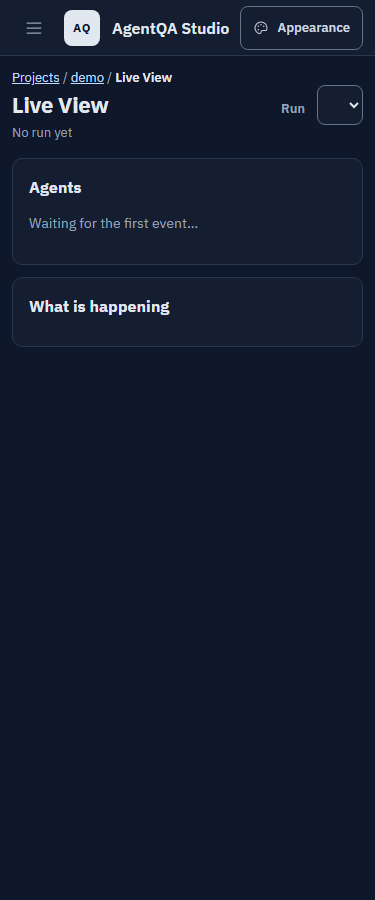
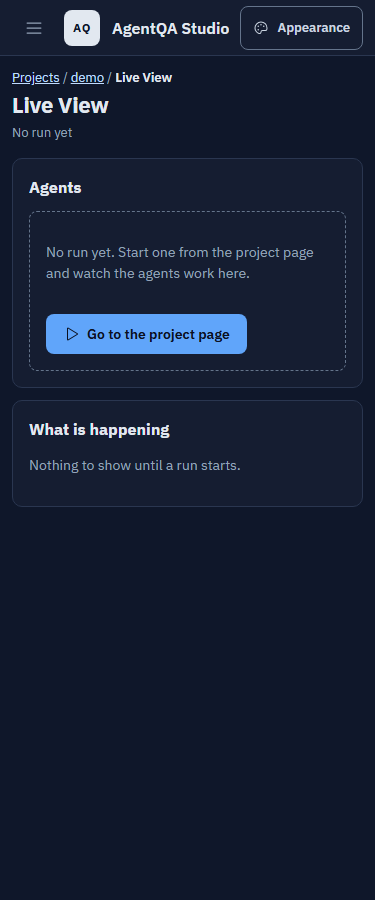
feat: M1.2-UI phase 3 — testing motion, progress bar, skeletons and honest Live View states
- Live.tsx: skeleton cards while the run list loads (aria-busy region), "No run yet" with the way to start one
  (run selector hidden), "Waiting for the first event…" once a run is chosen, an alert when the list fails.
  A tick draws itself only on cards whose state changed after they first appeared, so a replayed run is quiet.
- components/ProgressBar.tsx (transform-based fill, clamped, announced as a progress bar) replaces the wizard's
  bare <progress>; components/Skeleton.tsx placeholder cards; styles/motion.css recipes (pulse, tick-in,
  cross-in, skeleton, drawer slide, scan line for M1.3) all zeroed under reduced motion by tokens.css.
- Tests first: Live.test.tsx (4), ProgressBar.test.tsx (2). Vitest 43/43, tsc and oxlint clean, app check green.

diff --git a/frontend/src/pages/Live.tsx b/frontend/src/pages/Live.tsx
@@ -1,9 +1,10 @@
-import { useEffect, useReducer } from "react";
+import { useEffect, useReducer, useState } from "react";
 import { Link, useParams, useSearchParams } from "react-router";
 import { useQuery } from "@tanstack/react-query";
-import { CheckCircle, CircleDashed, HandPalm, Spinner, XCircle } from "@phosphor-icons/react";
+import { CheckCircle, CircleDashed, HandPalm, Play, Spinner, XCircle } from "@phosphor-icons/react";
 import { api, type LiveEvent } from "../lib/api";
 import { initialLiveState, reduceLive, type AgentState } from "../lib/live";
+import { SkeletonCards } from "../components/Skeleton";
 
 const ICONS: Record<AgentState, React.ReactNode> = {
   running: <Spinner aria-hidden="true" />,
@@ -15,16 +16,22 @@ const ICONS: Record<AgentState, React.ReactNode> = {
 const LABELS: Record<AgentState, string> = { running: "Running", done: "Done", waiting: "Waiting for you", idle: "Queued", failed: "Failed" };
 const MAX_SHOWN = 300;
 
-/** Live View (bare, M0.5): one card per agent and the event stream over Server-Sent Events. M1.3 builds it out. */
+/** Live View (M0.5 board + stream, M1.2-UI states): one card per agent and the event stream over Server-Sent Events.
+ *  Honest states: a skeleton while the runs load, "No run yet" with the way to start one, "Waiting for the first
+ *  event…" once a run is chosen, and an error when the list fails. Live View v2 (M1.3) builds the rest. */
 export function Live() {
   const { slug = "" } = useParams();
   const [params, setParams] = useSearchParams();
   const sessions = useQuery({ queryKey: ["live-sessions", slug], queryFn: () => api.liveSessions(slug) });
   const session = params.get("session") ?? sessions.data?.[0]?.id ?? "";
   const [state, dispatch] = useReducer(reduceLive, initialLiveState);
+  // The states the cards had when they first appeared: a tick draws itself only on a card that changed afterwards,
+  // so a replayed run shows its final board quietly instead of animating every card at once.
+  const [baseline, setBaseline] = useState<Map<string, AgentState> | null>(null);
 
   useEffect(() => {
     dispatch({ type: "reset" });                       // another run: start the board from nothing
+    setBaseline(null);
     if (!session) return;
     const source = new EventSource(api.streamUrl(slug, session));
     source.addEventListener("live", (e) => {
@@ -42,12 +49,19 @@ export function Live() {
     return () => source.close();
   }, [slug, session]);
 
+  useEffect(() => {
+    if (baseline === null && state.agents.length > 0) setBaseline(new Map(state.agents.map((a) => [a.agent, a.state])));
+  }, [baseline, state.agents]);
+
+  const noRun = sessions.isSuccess && sessions.data.length === 0;
+  const projectHref = `/projects/${encodeURIComponent(slug)}`;
+
   return (
     <>
       <div className="topbar">
         <div>
           <div className="crumbs">
-            <Link to="/">Projects</Link> / <Link to={`/projects/${encodeURIComponent(slug)}`}>{slug}</Link> / <b>Live View</b>
+            <Link to="/">Projects</Link> / <Link to={projectHref}>{slug}</Link> / <b>Live View</b>
           </div>
           <h1>Live View</h1>
           <p className="sub">
@@ -56,40 +70,64 @@ export function Live() {
           </p>
         </div>
         <div className="spacer" />
-        <label htmlFor="session" className="small muted">
-          Run
-        </label>
-        <select id="session" value={session} onChange={(e) => setParams({ session: e.target.value })}>
-          {sessions.data?.map((s) => (
-            <option key={s.id} value={s.id}>
-              {s.label}
-              {s.running ? " · running" : ""}
-            </option>
-          ))}
-        </select>
+        {sessions.data && sessions.data.length > 0 && (
+          <>
+            <label htmlFor="session" className="small muted">
+              Run
+            </label>
+            <select id="session" value={session} onChange={(e) => setParams({ session: e.target.value })}>
+              {sessions.data.map((s) => (
+                <option key={s.id} value={s.id}>
+                  {s.label}
+                  {s.running ? " · running" : ""}
+                </option>
+              ))}
+            </select>
+          </>
+        )}
       </div>
 
+      {sessions.isError && (
+        <p className="notice bad" role="alert">
+          The runs could not be loaded. Reload the page, or check that the server is still up.
+        </p>
+      )}
+
       <div className="grid g-live">
-        <section className="card" aria-labelledby="h-agents">
+        <section className="card" aria-labelledby="h-agents" aria-busy={sessions.isPending || undefined}>
           <h2 id="h-agents">Agents</h2>
-          {state.agents.length === 0 && <p className="muted">Waiting for the first event…</p>}
+          {sessions.isPending && <SkeletonCards />}
+          {noRun && (
+            <div className="empty">
+              <p>No run yet. Start one from the project page and watch the agents work here.</p>
+              <Link className="btn primary" to={projectHref}>
+                <Play aria-hidden="true" />
+                Go to the project page
+              </Link>
+            </div>
+          )}
+          {session && state.agents.length === 0 && <p className="muted">Waiting for the first event…</p>}
           <div className="agents one-col">
-            {state.agents.map((a) => (
-              <div key={a.agent} className={`agent ${a.state}`}>
-                <div className="name">
-                  {ICONS[a.state]}
-                  {a.agent}
+            {state.agents.map((a) => {
+              const changed = baseline !== null && baseline.get(a.agent) !== a.state;
+              return (
+                <div key={a.agent} className={`agent ${a.state}${changed ? " changed" : ""}`}>
+                  <div className="name">
+                    {ICONS[a.state]}
+                    {a.agent}
+                  </div>
+                  <div className="state">
+                    {LABELS[a.state]} · {a.last}
+                  </div>
+                  <div className="meta">{a.steps} events</div>
                 </div>
-                <div className="state">
-                  {LABELS[a.state]} · {a.last}
-                </div>
-                <div className="meta">{a.steps} events</div>
-              </div>
-            ))}
+              );
+            })}
           </div>
         </section>
         <section className="card flat" aria-labelledby="h-stream">
           <h2 id="h-stream">What is happening</h2>
+          {!session && !sessions.isPending && <p className="muted">Nothing to show until a run starts.</p>}
           <div className="stream" tabIndex={0} aria-label="Live events" aria-live="polite">
             {state.events.slice(-MAX_SHOWN).map((e) => (
               <div key={`${e.w}-${e.seq}-${e.t}`} className={`evt ${e.level === "bad" ? "fail" : ""}`}>

diff --git a/frontend/src/pages/Live.test.tsx b/frontend/src/pages/Live.test.tsx
@@ -1,0 +1,74 @@
+import { afterEach, describe, expect, it, vi } from "vitest";
+import { cleanup, render, screen, waitFor } from "@testing-library/react";
+import { QueryClient, QueryClientProvider } from "@tanstack/react-query";
+import { MemoryRouter, Route, Routes } from "react-router";
+import { Live } from "./Live";
+
+class FakeEventSource {
+  static instances: FakeEventSource[] = [];
+  listeners: Record<string, ((e: MessageEvent) => void)[]> = {};
+  url: string;
+  constructor(url: string) {
+    this.url = url;
+    FakeEventSource.instances.push(this);
+  }
+  addEventListener(type: string, cb: (e: MessageEvent) => void) {
+    (this.listeners[type] ??= []).push(cb);
+  }
+  close() {}
+}
+
+function respond(status: number, body: unknown, delayMs = 0) {
+  return new Promise<Response>((resolve) =>
+    setTimeout(() => resolve(new Response(JSON.stringify(body), { status, headers: { "Content-Type": "application/json" } })), delayMs),
+  );
+}
+
+function mount(sessions: () => Promise<Response>) {
+  vi.stubGlobal("fetch", vi.fn(sessions));
+  vi.stubGlobal("EventSource", FakeEventSource);
+  const client = new QueryClient({ defaultOptions: { queries: { retry: false } } });
+  return render(
+    <QueryClientProvider client={client}>
+      <MemoryRouter initialEntries={["/projects/demo/live"]}>
+        <Routes>
+          <Route path="/projects/:slug/live" element={<Live />} />
+        </Routes>
+      </MemoryRouter>
+    </QueryClientProvider>,
+  );
+}
+
+afterEach(() => {
+  cleanup();
+  vi.unstubAllGlobals();
+  FakeEventSource.instances = [];
+});
+
+describe("Live", () => {
+  it("shows a skeleton board while the runs are loading", () => {
+    mount(() => respond(200, { ok: true, data: [] }, 50));
+    expect(screen.getByRole("region", { name: "Agents" })).toHaveAttribute("aria-busy", "true");
+  });
+
+  it("with no run yet, says so, links to the project page and hides the run selector", async () => {
+    mount(() => respond(200, { ok: true, data: [] }));
+    const link = await screen.findByRole("link", { name: /project page/ });     // the header says "No run yet" even while loading
+    expect(link).toHaveAttribute("href", "/projects/demo");
+    expect(screen.getByText(/No run yet\. Start one/)).toBeVisible();
+    expect(screen.queryByRole("combobox", { name: "Run" })).toBeNull();
+    expect(FakeEventSource.instances).toHaveLength(0);                      // nothing to stream
+  });
+
+  it("with a run but no events yet, waits for the first event", async () => {
+    mount(() => respond(200, { ok: true, data: [{ id: "job-1-pipeline", label: "run 1", running: true, when: "now", shots: 0 }] }));
+    await waitFor(() => expect(screen.getByText(/Waiting for the first event/)).toBeVisible());
+    expect(screen.getByRole("combobox", { name: "Run" })).toHaveValue("job-1-pipeline");
+    expect(FakeEventSource.instances[0].url).toContain("/live/job-1-pipeline/stream");
+  });
+
+  it("tells the person when the runs could not be loaded", async () => {
+    mount(() => respond(500, { ok: false, error: { code: "server", message: "boom" } }));
+    await waitFor(() => expect(screen.getByRole("alert")).toHaveTextContent(/could not be loaded/));
+  });
+});

diff --git a/frontend/src/components/ProgressBar.test.tsx b/frontend/src/components/ProgressBar.test.tsx
@@ -1,0 +1,28 @@
+import { afterEach, describe, expect, it } from "vitest";
+import { cleanup, render, screen } from "@testing-library/react";
+import { ProgressBar } from "./ProgressBar";
+
+afterEach(cleanup);
+
+describe("ProgressBar", () => {
+  it("exposes the value as a progress bar and clamps it to 0..1", () => {
+    render(<ProgressBar value={0.38} label="Run progress" />);
+    const bar = screen.getByRole("progressbar", { name: "Run progress" });
+    expect(bar).toHaveAttribute("aria-valuenow", "38");
+    expect(bar).toHaveAttribute("aria-valuemin", "0");
+    expect(bar).toHaveAttribute("aria-valuemax", "100");
+    cleanup();
+    render(<ProgressBar value={1.7} label="Upload" />);
+    expect(screen.getByRole("progressbar", { name: "Upload" })).toHaveAttribute("aria-valuenow", "100");
+    cleanup();
+    render(<ProgressBar value={-2} label="Upload" />);
+    expect(screen.getByRole("progressbar", { name: "Upload" })).toHaveAttribute("aria-valuenow", "0");
+  });
+
+  it("fills by a transform, never by width, so the motion stays on the compositor", () => {
+    render(<ProgressBar value={0.5} label="Run progress" />);
+    const fill = screen.getByRole("progressbar", { name: "Run progress" }).firstElementChild as HTMLElement;
+    expect(fill.style.getPropertyValue("--p")).toBe("0.5");
+    expect(fill.style.width).toBe("");
+  });
+});

diff --git a/frontend/src/pages/wizard/StepRequirements.tsx b/frontend/src/pages/wizard/StepRequirements.tsx
@@ -2,6 +2,7 @@ import { useRef, useState } from "react";
 import { useMutation } from "@tanstack/react-query";
 import { CheckCircle, FileText, Trash, UploadSimple, Warning, XCircle } from "@phosphor-icons/react";
 import { ApiError, api, upload, type ChatResult, type DocumentInfo } from "../../lib/api";
+import { ProgressBar } from "../../components/ProgressBar";
 import { RequirementChat } from "./RequirementChat";
 
 const ACCEPT = ".docx,.doc,.pdf,.xlsx,.xlsm,.xls,.csv,.html,.htm,.json,.md,.txt,.png,.jpg,.jpeg";
@@ -95,9 +96,10 @@ export function StepRequirements(p: Props) {
           <input ref={picker} type="file" multiple accept={ACCEPT} hidden onChange={(e) => void send(e.target.files, "documents")} />
         </div>
         {progress !== null && (
-          <progress className="upload" value={progress} max={1} aria-label="Upload progress">
-            {Math.round(progress * 100)}%
-          </progress>
+          <div className="mt-4">
+            <ProgressBar value={progress} label="Upload progress" />
+            <span className="muted small">{Math.round(progress * 100)}% sent</span>
+          </div>
         )}
         {(uploadError ?? removeError) && (
           <p className="notice bad" role="alert">

diff --git a/frontend/src/components/Skeleton.tsx b/frontend/src/components/Skeleton.tsx
@@ -1,0 +1,19 @@
+type Props = {
+  /** How many placeholder cards to draw while the real ones load. */
+  cards?: number;
+};
+
+/** Placeholder agent cards that keep the layout while the run list loads; they pulse only inside an aria-busy region. */
+export function SkeletonCards({ cards = 3 }: Props) {
+  return (
+    <div className="agents one-col" aria-hidden="true">
+      {Array.from({ length: cards }, (_, i) => (
+        <div key={i} className="agent idle">
+          <div className="skel" style={{ width: "55%" }} />
+          <div className="skel" style={{ width: "80%", marginTop: 8 }} />
+          <div className="skel" style={{ width: "30%", marginTop: 10, minHeight: 10 }} />
+        </div>
+      ))}
+    </div>
+  );
+}

diff --git a/frontend/src/components/ProgressBar.tsx b/frontend/src/components/ProgressBar.tsx
@@ -1,0 +1,17 @@
+import type { CSSProperties } from "react";
+
+type Props = {
+  /** 0..1; anything outside is clamped, NaN counts as 0. */
+  value: number;
+  label: string;
+};
+
+/** A bar that fills by a transform (compositor-friendly, see styles/components.css .progress), announced as a progress bar. */
+export function ProgressBar({ value, label }: Props) {
+  const fraction = Number.isFinite(value) ? Math.min(1, Math.max(0, value)) : 0;
+  return (
+    <div className="progress" role="progressbar" aria-label={label} aria-valuenow={Math.round(fraction * 100)} aria-valuemin={0} aria-valuemax={100}>
+      <i style={{ "--p": String(fraction) } as CSSProperties} />
+    </div>
+  );
+}
